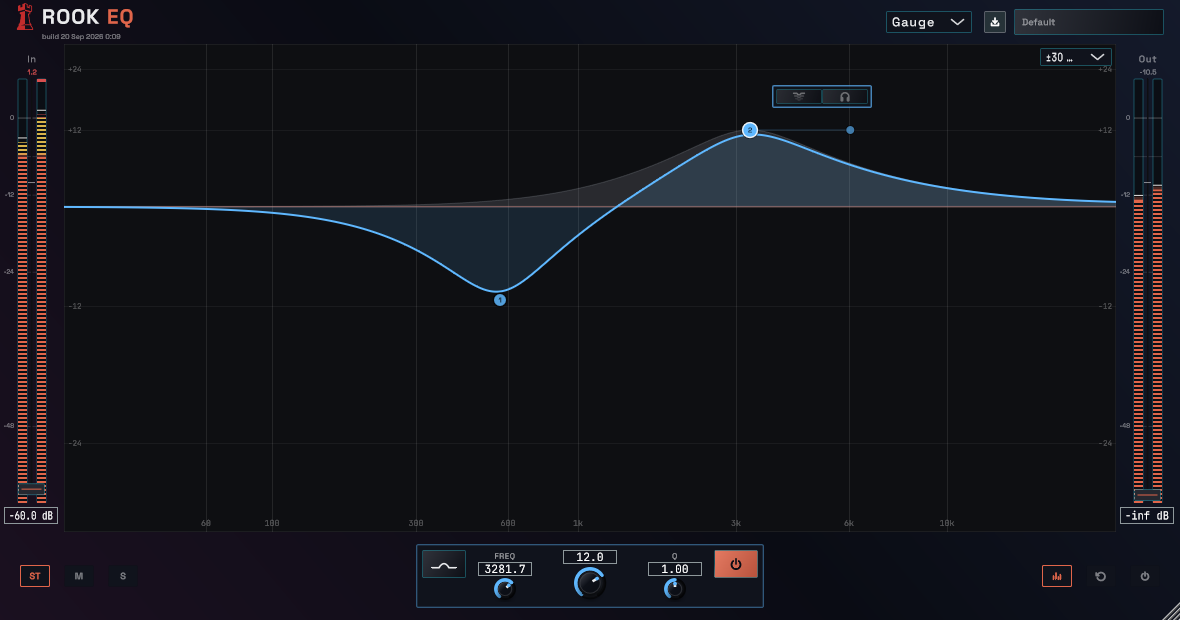
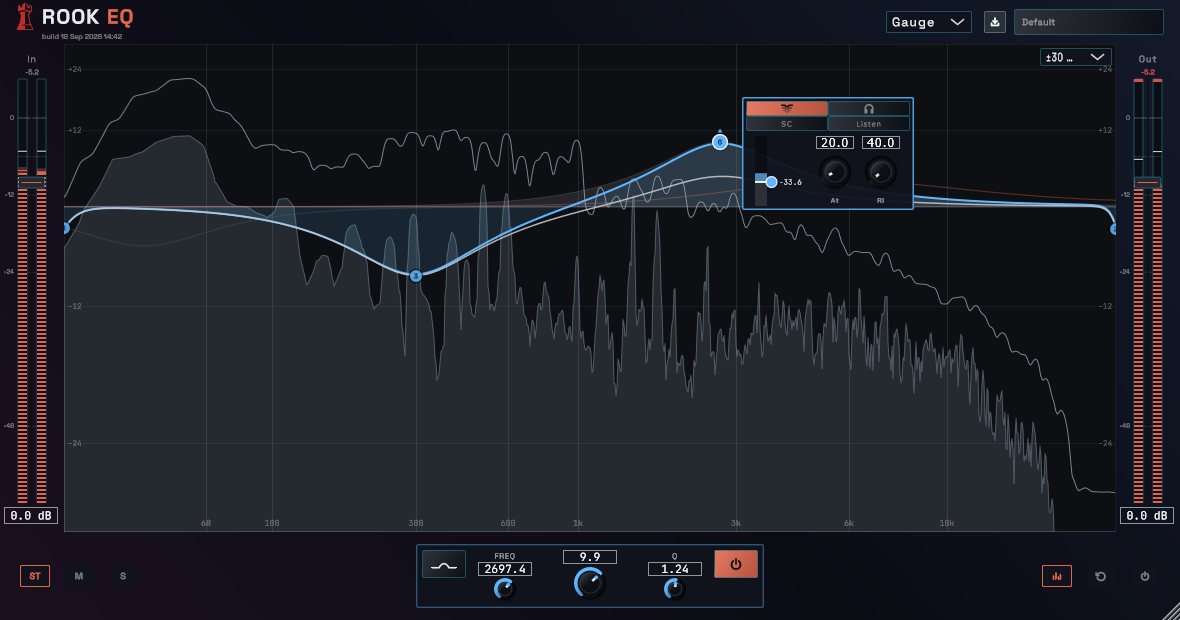
Set up private alpha testing

diff --git a/SUPPORT.md b/SUPPORT.md
@@ -1,6 +1,14 @@
 # Support
 
-Rook EQ is in development for Windows, 64-bit VST3. Public downloads and a release date have not been announced.
+Rook EQ is in private alpha testing for Windows, 64-bit VST3. No release date has been announced.
+
+## Alpha testing
+
+[Request alpha access](https://github.com/cwagoner78/RookEQ/issues/new?template=alpha_tester.yml).
+
+Accepted testers receive a private installer link and private diagnostic-log upload instructions. The alpha is unfinished, currently unsigned, and intended for testing rather than production sessions.
+
+Diagnostic logs may contain local file paths and system details. Review the files before uploading them.
 
 ## Report a bug
 
@@ -15,6 +23,8 @@ Rook EQ is in development for Windows, 64-bit VST3. Public downloads and a relea
 For an interface problem, include display scaling and the number of open plugin windows. For a dynamics problem, note whether you used an external sidechain.
 
 GitHub issues are public. Remove personal information from attachments and share only audio you have permission to publish.
+
+Do not attach diagnostic log ZIPs to a GitHub issue. Use the private upload link supplied with alpha access.
 
 ## Suggest a feature
 

diff --git a/docs/screenshots.md b/docs/screenshots.md
@@ -2,16 +2,10 @@
 
 Development previews of Rook EQ in the Gauge theme. These captures show the plugin interface with example settings; the meter levels are illustrative.
 
-## Working with bands
+## Dynamic Mid/Side processing
 
-Two bands on the response curve, with controls for the selected band below the graph.
+A Gauge-theme session with active spectrum analysis, multiple EQ bands, and the selected band's dynamics controls open.
 
-![Rook EQ with a low-mid cut and an upper-mid boost](../assets/rook-eq-interface.png)
-
-## Starting a session
-
-The default view opens with no active bands. Input and output trims, Stereo/Mid/Side views, and analyzer controls remain within reach.
-
-![Rook EQ default view with a flat response and no active bands](../assets/rook-eq-default.png)
+![Rook EQ showing active spectrum analysis, multiple bands, and dynamics controls](../assets/rook-eq-interface.png)
 
 [Read the quick start](user-guide.md)

diff --git a/README.md b/README.md
@@ -19,9 +19,13 @@ Shape a track, control a problem frequency, or work on the center and sides of a
 
 ## Availability
 
-Rook EQ is in development. The current release target is **Windows, 64-bit VST3**.
+Rook EQ is in private alpha testing for **Windows, 64-bit VST3**.
 
-There is no public download or announced release date. This repository is the public home for product information, documentation, and feedback. The plugin's source code is private.
+[Request alpha access](https://github.com/cwagoner78/RookEQ/issues/new?template=alpha_tester.yml)
+
+Alpha builds are unfinished and intended for testing, not production sessions. Accepted testers receive the private installer and diagnostic-log upload instructions.
+
+No release date has been announced. This repository is the public home for product information, documentation, and feedback. The plugin's source code is private.
 
 ## Documentation and feedback
 
